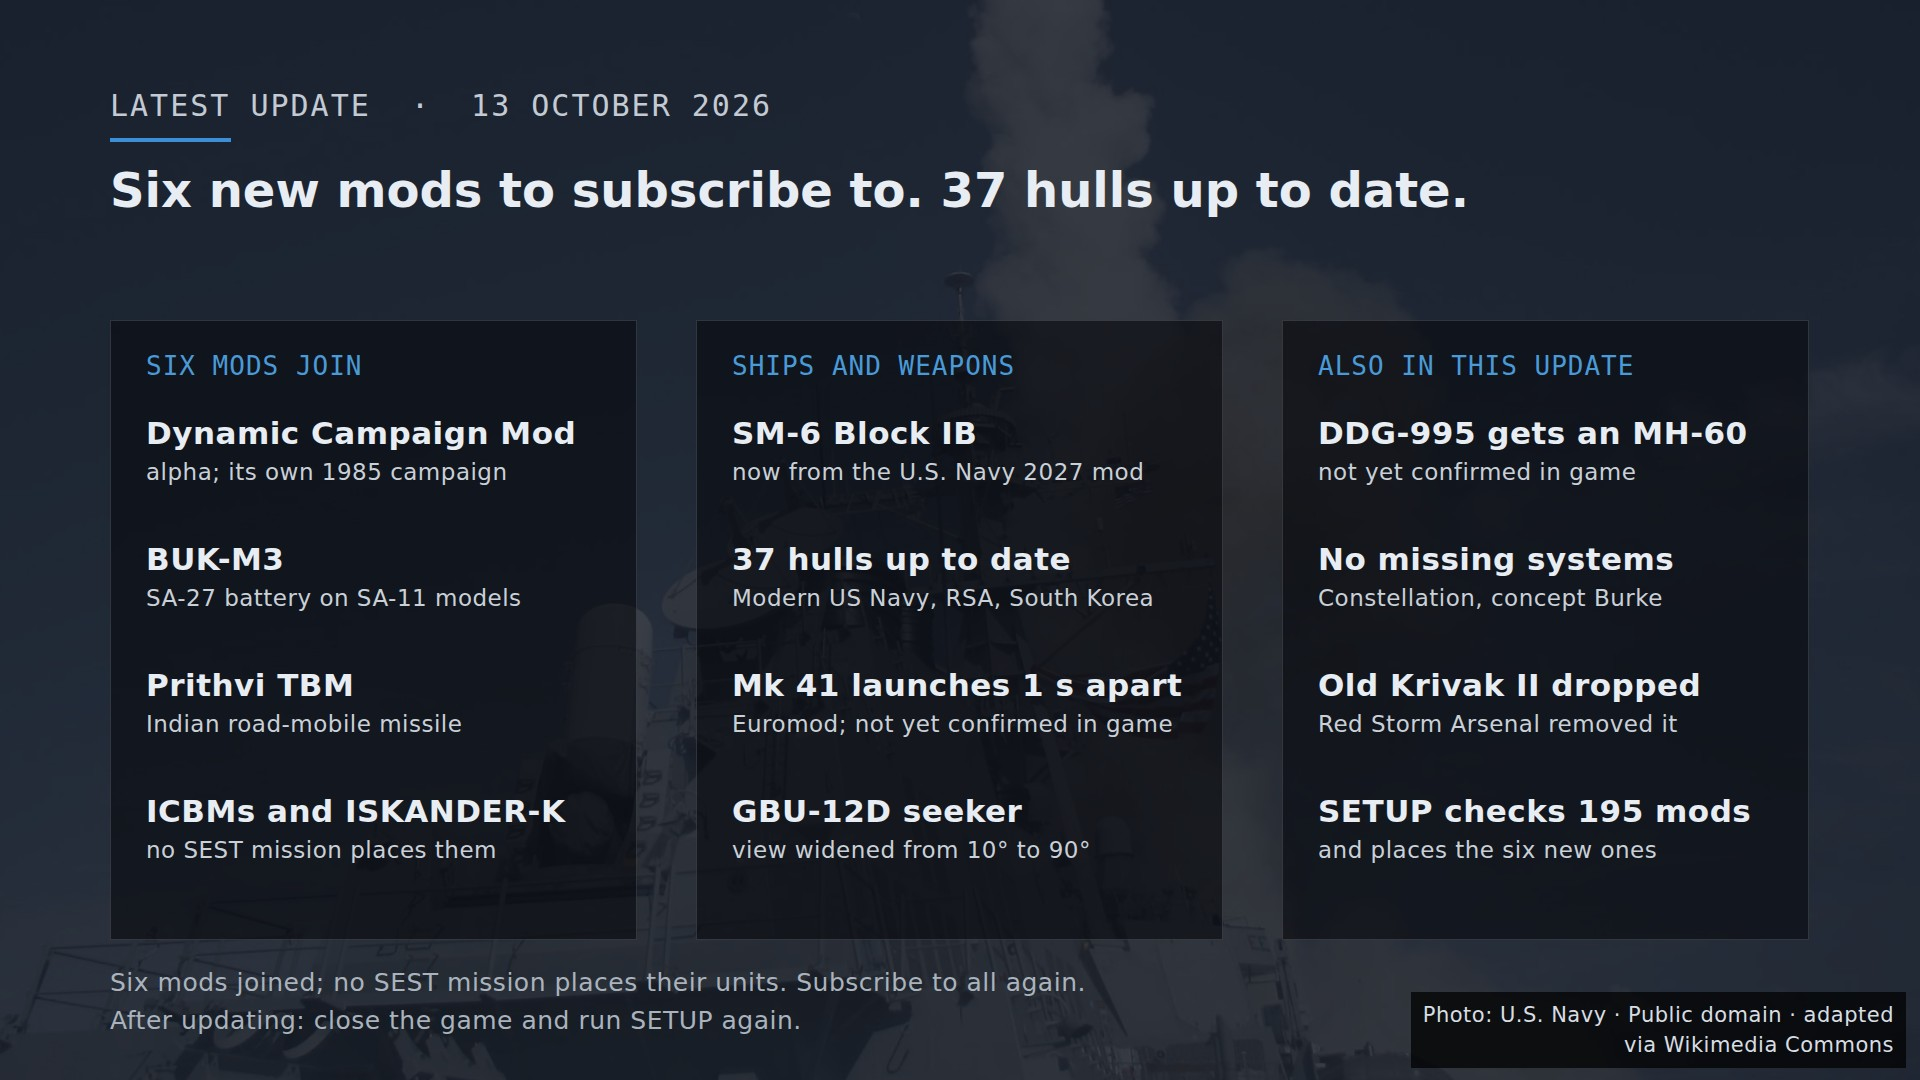
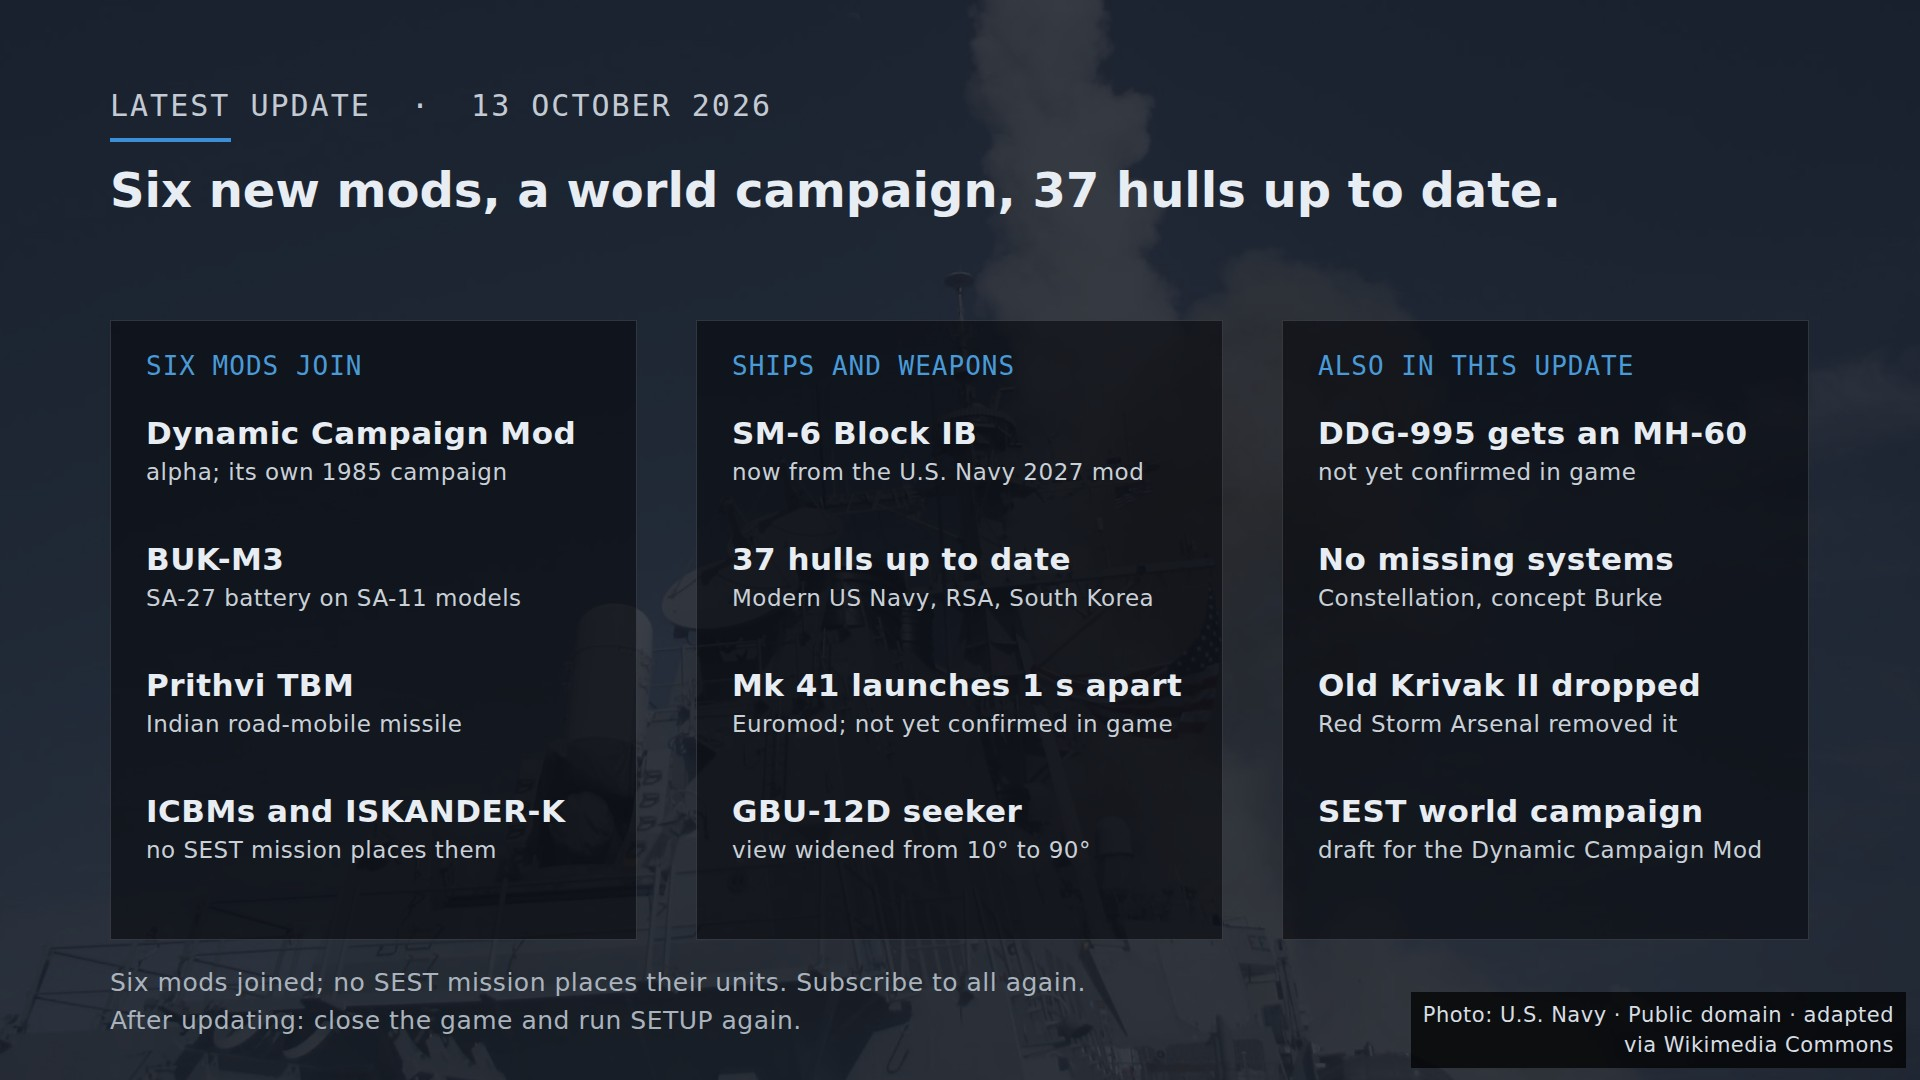
World campaign on the 13 Oct card and in the feature list
The update card's headline and last row name the world campaign (a
draft for the Dynamic Campaign Mod). FEATURES.md describes it (two
sides, 38 nations, 141 bases, 267 fleets and air groups, submarines at
their real bases), lists it under 'Not yet confirmed in game', and
gives 195 Workshop mods without the old 24 GB figure, which has not
been re-measured. Rebuilt; gates as before.

Changed region(s): [[0.25, 0.1528, 0.8125, 0.2139], [0.6875, 0.7333, 0.9062, 0.7944]]

diff --git a/docs/FEATURES.md b/docs/FEATURES.md
@@ -16,9 +16,9 @@ repository and checked by automated gates before each upload.
 
 | | |
 |---|---|
-| Workshop mods integrated | 190 (about 24 GB with the pack) |
+| Workshop mods integrated | 195 (the download size has not been re-measured since 190) |
 | SEST source packs | 20, merged into one deployable folder |
-| Campaigns | 4, each also as an Open Allocation version |
+| Campaigns | 4, each also as an Open Allocation version, plus a world campaign (draft) for the Dynamic Campaign Mod |
 | Campaign missions | 57, plus 8 single missions (Southern Watch - Dispatches) |
 | Story pages | Press pages, signals, ship's logs and intelligence summaries between missions |
 | Units with a real encyclopedia photo | 636 |
@@ -130,6 +130,18 @@ experience carry forward from mission to mission.
   units cost their listed price, and the rules page says which is which.
 - **Checks on every unit:** each unit a mission uses, with its loadout and
   weapon, is checked against the mod that actually wins the load order.
+
+### The world campaign *(draft, 13 October 2026)*
+
+- **SEST World Sandbox 2028:** a persistent 2028 world for the Dynamic
+  Campaign Mod (Workshop 3813157776, an alpha by Bungalow), listed in the
+  Campaign menu marked [Dynamic]. Two sides, 38 nations, 141 bases, 267
+  fleets and air groups, supply ships and patrols, built from the SEST
+  research; submarines at their real bases, with a boat from each squadron
+  at sea.
+- **Built and checked with the pack:** every unit it names is checked against
+  this load order on every build, and the build stops if one is missing.
+- **Not yet played:** see section 8.
 
 ---
 
@@ -349,6 +361,8 @@ how to check each.
   the large bases faster, and which key mattered.
 - **The Meridian flag:** that a nation the game's own list does not name
   shows its flag from the flag table and its name from nations.ini.
+- **The world campaign:** that the Dynamic Campaign Mod lists and starts it,
+  and how it plays (battles, supply, submarine patrols, save and reload).
 
 ---
 
